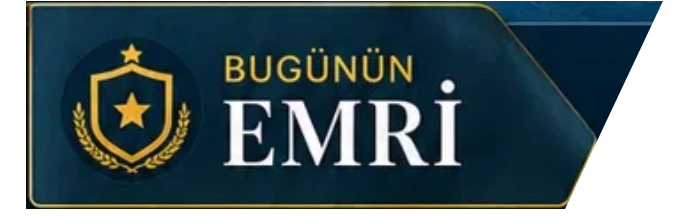
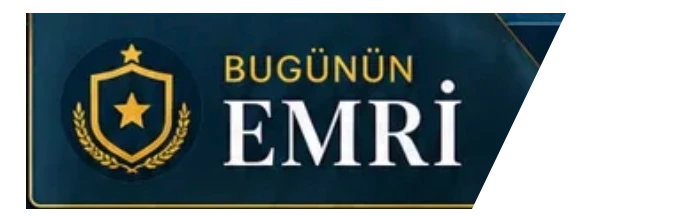
Plaka: kod cizimi flama + dairesel arma kesiti; Sis v2: navigasyon sis tepe noktasinda (once yogunlasir, kor anda gecer, parallax dagilir)

Changed region(s): [[0.0309, 0.0, 0.9882, 0.9722]]

diff --git a/src/app/(tabs)/_layout.tsx b/src/app/(tabs)/_layout.tsx
@@ -1,7 +1,7 @@
 import { MaterialCommunityIcons } from '@expo/vector-icons';
 import { LinearGradient } from 'expo-linear-gradient';
 import { Tabs } from 'expo-router';
-import { useEffect, useState } from 'react';
+import { useCallback, useEffect, useRef, useState } from 'react';
 import { StyleSheet, View, useWindowDimensions, type ColorValue } from 'react-native';
 import Animated, {
   Easing,
@@ -20,59 +20,75 @@ import { useKisiselOzellik } from '@/lib/ozellik';
  * Sekme değişiminde: yumuşak turkuaz sis ekrana çöker (~220ms), sonra iki yarım
  * perde yanlara kayarak aralanır ve solar (~650ms). Dokunuşları engellemez.
  */
-function SisPerdesi({ sinyal }: { sinyal: number }) {
-  const { width: W } = useWindowDimensions();
-  const yog = useSharedValue(0); // sis yoğunluğu
-  const ac = useSharedValue(0); // perdenin aralanması
+function SisPerdesi({ sinyal, ortada }: { sinyal: number; ortada: () => void }) {
+  const { width: W, height: H } = useWindowDimensions();
+  const yog = useSharedValue(0); // 0=açık gök, 1=tam sis
   useEffect(() => {
     if (!sinyal) return;
     yog.value = 0;
-    ac.value = 0;
     yog.value = withSequence(
-      withTiming(1, { duration: 220, easing: Easing.out(Easing.quad) }),
-      withDelay(120, withTiming(0, { duration: 620, easing: Easing.out(Easing.quad) })),
+      withTiming(1, { duration: 380, easing: Easing.in(Easing.quad) }), // sis çöker
+      withTiming(1, { duration: 140 }), // tam kapalı — menü bu kör anda değişir
+      withTiming(0, { duration: 780, easing: Easing.out(Easing.quad) }), // sis dağılır
     );
-    ac.value = withDelay(300, withTiming(1, { duration: 620, easing: Easing.inOut(Easing.quad) }));
-  }, [sinyal, yog, ac]);
-  const solStil = useAnimatedStyle(() => ({
-    opacity: yog.value,
-    transform: [{ translateX: -ac.value * W * 0.65 }],
-  }));
-  const sagStil = useAnimatedStyle(() => ({
-    opacity: yog.value,
-    transform: [{ translateX: ac.value * W * 0.65 }],
-  }));
+    const t = setTimeout(ortada, 430);
+    return () => clearTimeout(t);
+  }, [sinyal, yog, ortada]);
+  // Dört bulut katmanı: farklı hız çarpanları → perde değil SİS hissi (parallax).
+  const bulut = (yonX: number, yonY: number, hiz: number) =>
+    // eslint-disable-next-line react-hooks/rules-of-hooks
+    useAnimatedStyle(() => ({
+      opacity: Math.min(1, yog.value * 1.25),
+      transform: [
+        { translateX: yonX * W * 0.62 * (1 - yog.value) * hiz },
+        { translateY: yonY * H * 0.3 * (1 - yog.value) * hiz },
+      ],
+    }));
+  const solUst = bulut(-1, -0.4, 1);
+  const sagUst = bulut(1, -0.3, 0.75);
+  const solAlt = bulut(-1, 0.35, 0.85);
+  const sagAlt = bulut(1, 0.45, 1.1);
+  const ortStil = useAnimatedStyle(() => ({ opacity: yog.value * 0.98 }));
+  const katmanlar: [object, object][] = [
+    [sisSt.solUst, solUst],
+    [sisSt.sagUst, sagUst],
+    [sisSt.solAlt, solAlt],
+    [sisSt.sagAlt, sagAlt],
+  ];
   return (
     <View style={StyleSheet.absoluteFill} pointerEvents="none">
-      <Animated.View style={[sisSt.yarim, sisSt.sol, solStil]}>
-        <LinearGradient
-          colors={['rgba(150,196,212,0.55)', 'rgba(150,196,212,0.25)', 'rgba(150,196,212,0)']}
-          start={{ x: 0, y: 0.5 }}
-          end={{ x: 1, y: 0.5 }}
-          style={StyleSheet.absoluteFill}
-        />
-      </Animated.View>
-      <Animated.View style={[sisSt.yarim, sisSt.sag, sagStil]}>
-        <LinearGradient
-          colors={['rgba(150,196,212,0)', 'rgba(150,196,212,0.25)', 'rgba(150,196,212,0.55)']}
-          start={{ x: 0, y: 0.5 }}
-          end={{ x: 1, y: 0.5 }}
-          style={StyleSheet.absoluteFill}
-        />
-      </Animated.View>
+      {katmanlar.map(([yer, stil], i) => (
+        <Animated.View key={i} style={[sisSt.bulut, yer, stil]}>
+          <LinearGradient
+            colors={['rgba(206,224,233,0.98)', 'rgba(206,224,233,0.8)', 'rgba(206,224,233,0)']}
+            start={{ x: 0.5, y: 0.5 }}
+            end={{ x: 1, y: 1 }}
+            style={sisSt.bulutDolgu}
+          />
+        </Animated.View>
+      ))}
+      {/* Tepe yoğunlukta ekranı tamamen örten ince tül — geçiş bu örtünün ardında olur. */}
+      <Animated.View style={[StyleSheet.absoluteFill, sisSt.tul, ortStil]} />
     </View>
   );
 }
 
 const sisSt = StyleSheet.create({
-  yarim: {
+  bulut: {
     position: 'absolute',
-    top: 0,
-    bottom: 0,
-    width: '58%',
+    width: '85%',
+    height: '60%',
+    borderRadius: 999,
+    overflow: 'hidden',
   },
-  sol: { left: 0 },
-  sag: { right: 0 },
+  bulutDolgu: { flex: 1 },
+  solUst: { left: '-20%', top: '-12%' },
+  sagUst: { right: '-22%', top: '-8%' },
+  solAlt: { left: '-18%', bottom: '-10%' },
+  sagAlt: { right: '-20%', bottom: '-14%' },
+  tul: {
+    backgroundColor: 'rgb(206,224,233)',
+  },
 });
 
 type IconName = keyof typeof MaterialCommunityIcons.glyphMap;
@@ -124,13 +140,28 @@ export default function TabsLayout() {
   // içinden ulaşılır. Bayrak yalnız başkanda açık; kapalıyken bugünkü beş sekme aynen.
   const talimMevzuata = useKisiselOzellik('talim-mevzuata');
   const [sisSinyal, setSisSinyal] = useState(0);
+  const bekleyenGecis = useRef<(() => void) | null>(null);
+  const sisOrtada = useCallback(() => {
+    bekleyenGecis.current?.();
+    bekleyenGecis.current = null;
+  }, []);
   return (
     <View style={sisSt2.kap}>
     <Tabs
-      screenListeners={
+      screenListeners={({ navigation }) =>
         talimMevzuata
-          ? { tabPress: () => setSisSinyal((n) => n + 1) }
-          : undefined
+          ? {
+              tabPress: (e: { target?: string; preventDefault: () => void }) => {
+                const hedef = e.target;
+                if (!hedef) return;
+                // Gerçek sis: önce yoğunlaş, KÖR ANDA menü değişsin (başkan, 11 Ağu).
+                e.preventDefault();
+                const ad = hedef.substring(0, hedef.lastIndexOf('-'));
+                bekleyenGecis.current = () => navigation.navigate(ad as never);
+                setSisSinyal((n) => n + 1);
+              },
+            }
+          : {}
       }
       screenOptions={{
         headerShown: false,
@@ -180,7 +211,7 @@ export default function TabsLayout() {
       {/* Ara — bar'dan gizli (href:null); üstteki büyüteç ikonundan açılır. */}
       <Tabs.Screen name="ara" options={{ href: null, title: 'Ara' }} />
     </Tabs>
-    {talimMevzuata ? <SisPerdesi sinyal={sisSinyal} /> : null}
+    {talimMevzuata ? <SisPerdesi sinyal={sisSinyal} ortada={sisOrtada} /> : null}
     </View>
   );
 }

diff --git a/src/app/(tabs)/index.tsx b/src/app/(tabs)/index.tsx
@@ -584,12 +584,34 @@ export default function KarargahScreen() {
             <View style={[styles.gecePanel, styles.emirPanelUst]}>
               {/* SOL PLAKA (mock birebir): FLAMA kesimli zemin — sağ kenar çapraz,
                   altın konturlu; kartın üst çizgisine BİNER (kopuk pill değil). */}
-              {/* Mock'tan kesilen GERÇEK plaka (defne armalı) — %100 birebir. */}
-              <Image
-                source={require('../../../assets/images/mock-plaka-emri-seffaf.webp')}
-                style={styles.emirPlakaGorsel}
-                resizeMode="stretch"
-              />
+              {/* PLAKA: kod çizimi flama (kesik uç PÜRÜZSÜZ) + mock'tan yuvarlak kesilen defne arması. */}
+              <View style={styles.plakaKap}>
+                <Svg
+                  width="100%"
+                  height="100%"
+                  viewBox="0 0 190 58"
+                  preserveAspectRatio="none"
+                  style={StyleSheet.absoluteFill}>
+                  <Path
+                    d="M7,2 L182,2 L148,56 L7,56 Q2,56 2,51 L2,7 Q2,2 7,2 Z"
+                    fill="#0B2F44"
+                    stroke="#F3C24A"
+                    strokeWidth={1.6}
+                  />
+                </Svg>
+                <Image
+                  source={require('../../../assets/images/mock-arma.webp')}
+                  style={styles.plakaArmaGorsel}
+                />
+                <View>
+                  <AppText variant="etiket" bold color="altinParlak" style={styles.plakaUst}>
+                    BUGÜNÜN
+                  </AppText>
+                  <AppText variant="baslik" bold color="beyaz" style={styles.plakaAlt}>
+                    EMRİ
+                  </AppText>
+                </View>
+              </View>
               {/* Ref v5 SAĞ PLAKA: altın kenarlı kırmızı ZAYIF MEVZİLER (kurdele emekli). */}
               {!bos ? (
                 /* Başkan (11 Ağu): katlama uçları OLMASIN — temiz oval rozet. */
@@ -1689,10 +1711,20 @@ const styles = StyleSheet.create({
     width: 186,
     height: 56,
   },
-  emirPlakaGorsel: {
-    width: 198, // 680x216 şeffaf kesit oranı
-    height: 63,
-    marginBottom: Spacing.one, // akış içinde: altındakiyle binmesi imkânsız
+  plakaKap: {
+    width: 190,
+    height: 58,
+    marginBottom: Spacing.one, // akış içinde: binme imkânsız
+    flexDirection: 'row',
+    alignItems: 'center',
+    gap: Spacing.two,
+    paddingLeft: 8,
+    paddingRight: 30,
+  },
+  plakaArmaGorsel: {
+    width: 44,
+    height: 44,
+    borderRadius: 22,
   },
   zayifOval: {
     position: 'absolute',
